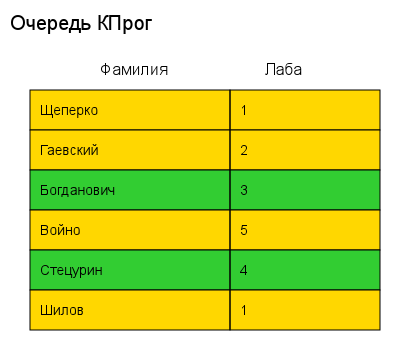
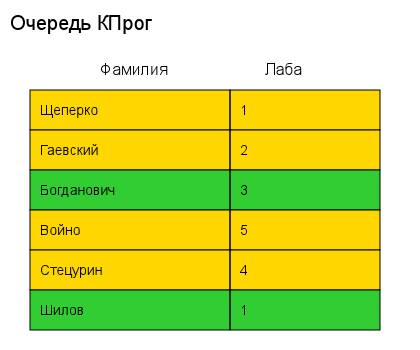
priority fix

Changed region(s): [[0.0619, 0.7143, 0.9286, 0.9429]]

diff --git a/src/commands/delayedMsgs.js b/src/commands/delayedMsgs.js
@@ -5,8 +5,14 @@ const { lessons } = require ('../lessons/lessons');
 const {readConfig, writeConfig} = require ('../utils/config')
 
 // Функция для отправки сообщений всем пользователям
-const sendMessagesToUsers = async (bot, message, replyMarkup) => {
-    const users = await getAllUsers(); // Получаем всех пользователей из базы данных
+const sendMessagesToUsers = async (bot, message, replyMarkup, isEnd) => {
+    let users;
+    if (isEnd) {
+        users = await getQueue('KProg');
+    } else {
+        users = await getAllUsers(); 
+    }
+
     console.log(`Всего пользователей в базе: ${users.length}`);
 
     const sendPromises = users.map(async (user) => {
@@ -61,7 +67,7 @@ function sendMessages(bot, dateTime, lesson, type) {
         }
 
         await writeConfig(config);
-        await sendMessagesToUsers(bot, message, replyMarkup);
+        await sendMessagesToUsers(bot, message, replyMarkup, false);
     });
 }
 
@@ -89,7 +95,7 @@ function sendEndMessage(bot, dateTime) {
             setPriority(user.tg_id, "Зелёный");
         }
 
-        await sendMessagesToUsers(bot, message, replyMarkup);
+        await sendMessagesToUsers(bot, message, replyMarkup, true);
     });
 }
 

diff --git a/src/commands/adminMenu.js b/src/commands/adminMenu.js
@@ -1,7 +1,7 @@
 const { InputFile } = require('grammy');
 
 const {
-    adminKeyboard, getKProgPriorityKeyboard,
+    adminKeyboard, getReturnKeyboard,
     selectQueueKeyboard,
     doWithTable
 } = require('../bot/keyboards'); 
@@ -178,7 +178,7 @@ function adminMenuCommand(bot) {
         if (surname) {
             await setPriorityBySurname(surname, priorities[priority]); // Устанавливаем приоритет
             await ctx.editMessageText(`Приоритет пользователя ${surname} изменён на ${priorities[priority]}`, {
-                reply_markup: getKProgPriorityKeyboard(false, 'kprog')
+                reply_markup: getReturnKeyboard(false, 'kprog')
             });
         } else {
             await ctx.reply('Не удалось найти фамилию. Попробуйте ещё раз.');

diff --git a/src/commands/priority.js b/src/commands/priority.js
@@ -29,7 +29,6 @@ function priorityCommand(bot) {
             if (a.surname > b.surname) return 1;
             return 0;
         });
-        console.log(data);
         await generatePriorityTable(data);
     
         // Отправляем изображение

diff --git a/src/lessons/schedules/KProgSchedule.js b/src/lessons/schedules/KProgSchedule.js
@@ -67,7 +67,7 @@ KProgSchedule.push({
 });
 
 // Тест
-KProgEnd.push("2024-10-28 13:05");
+KProgEnd.push("2024-11-04 17:47");
 KProgEnd.push('2024-10-28 15:20');
 KProgEnd.push('2024-11-04 15:20');
 KProgEnd.push('2024-11-08 11:55');
